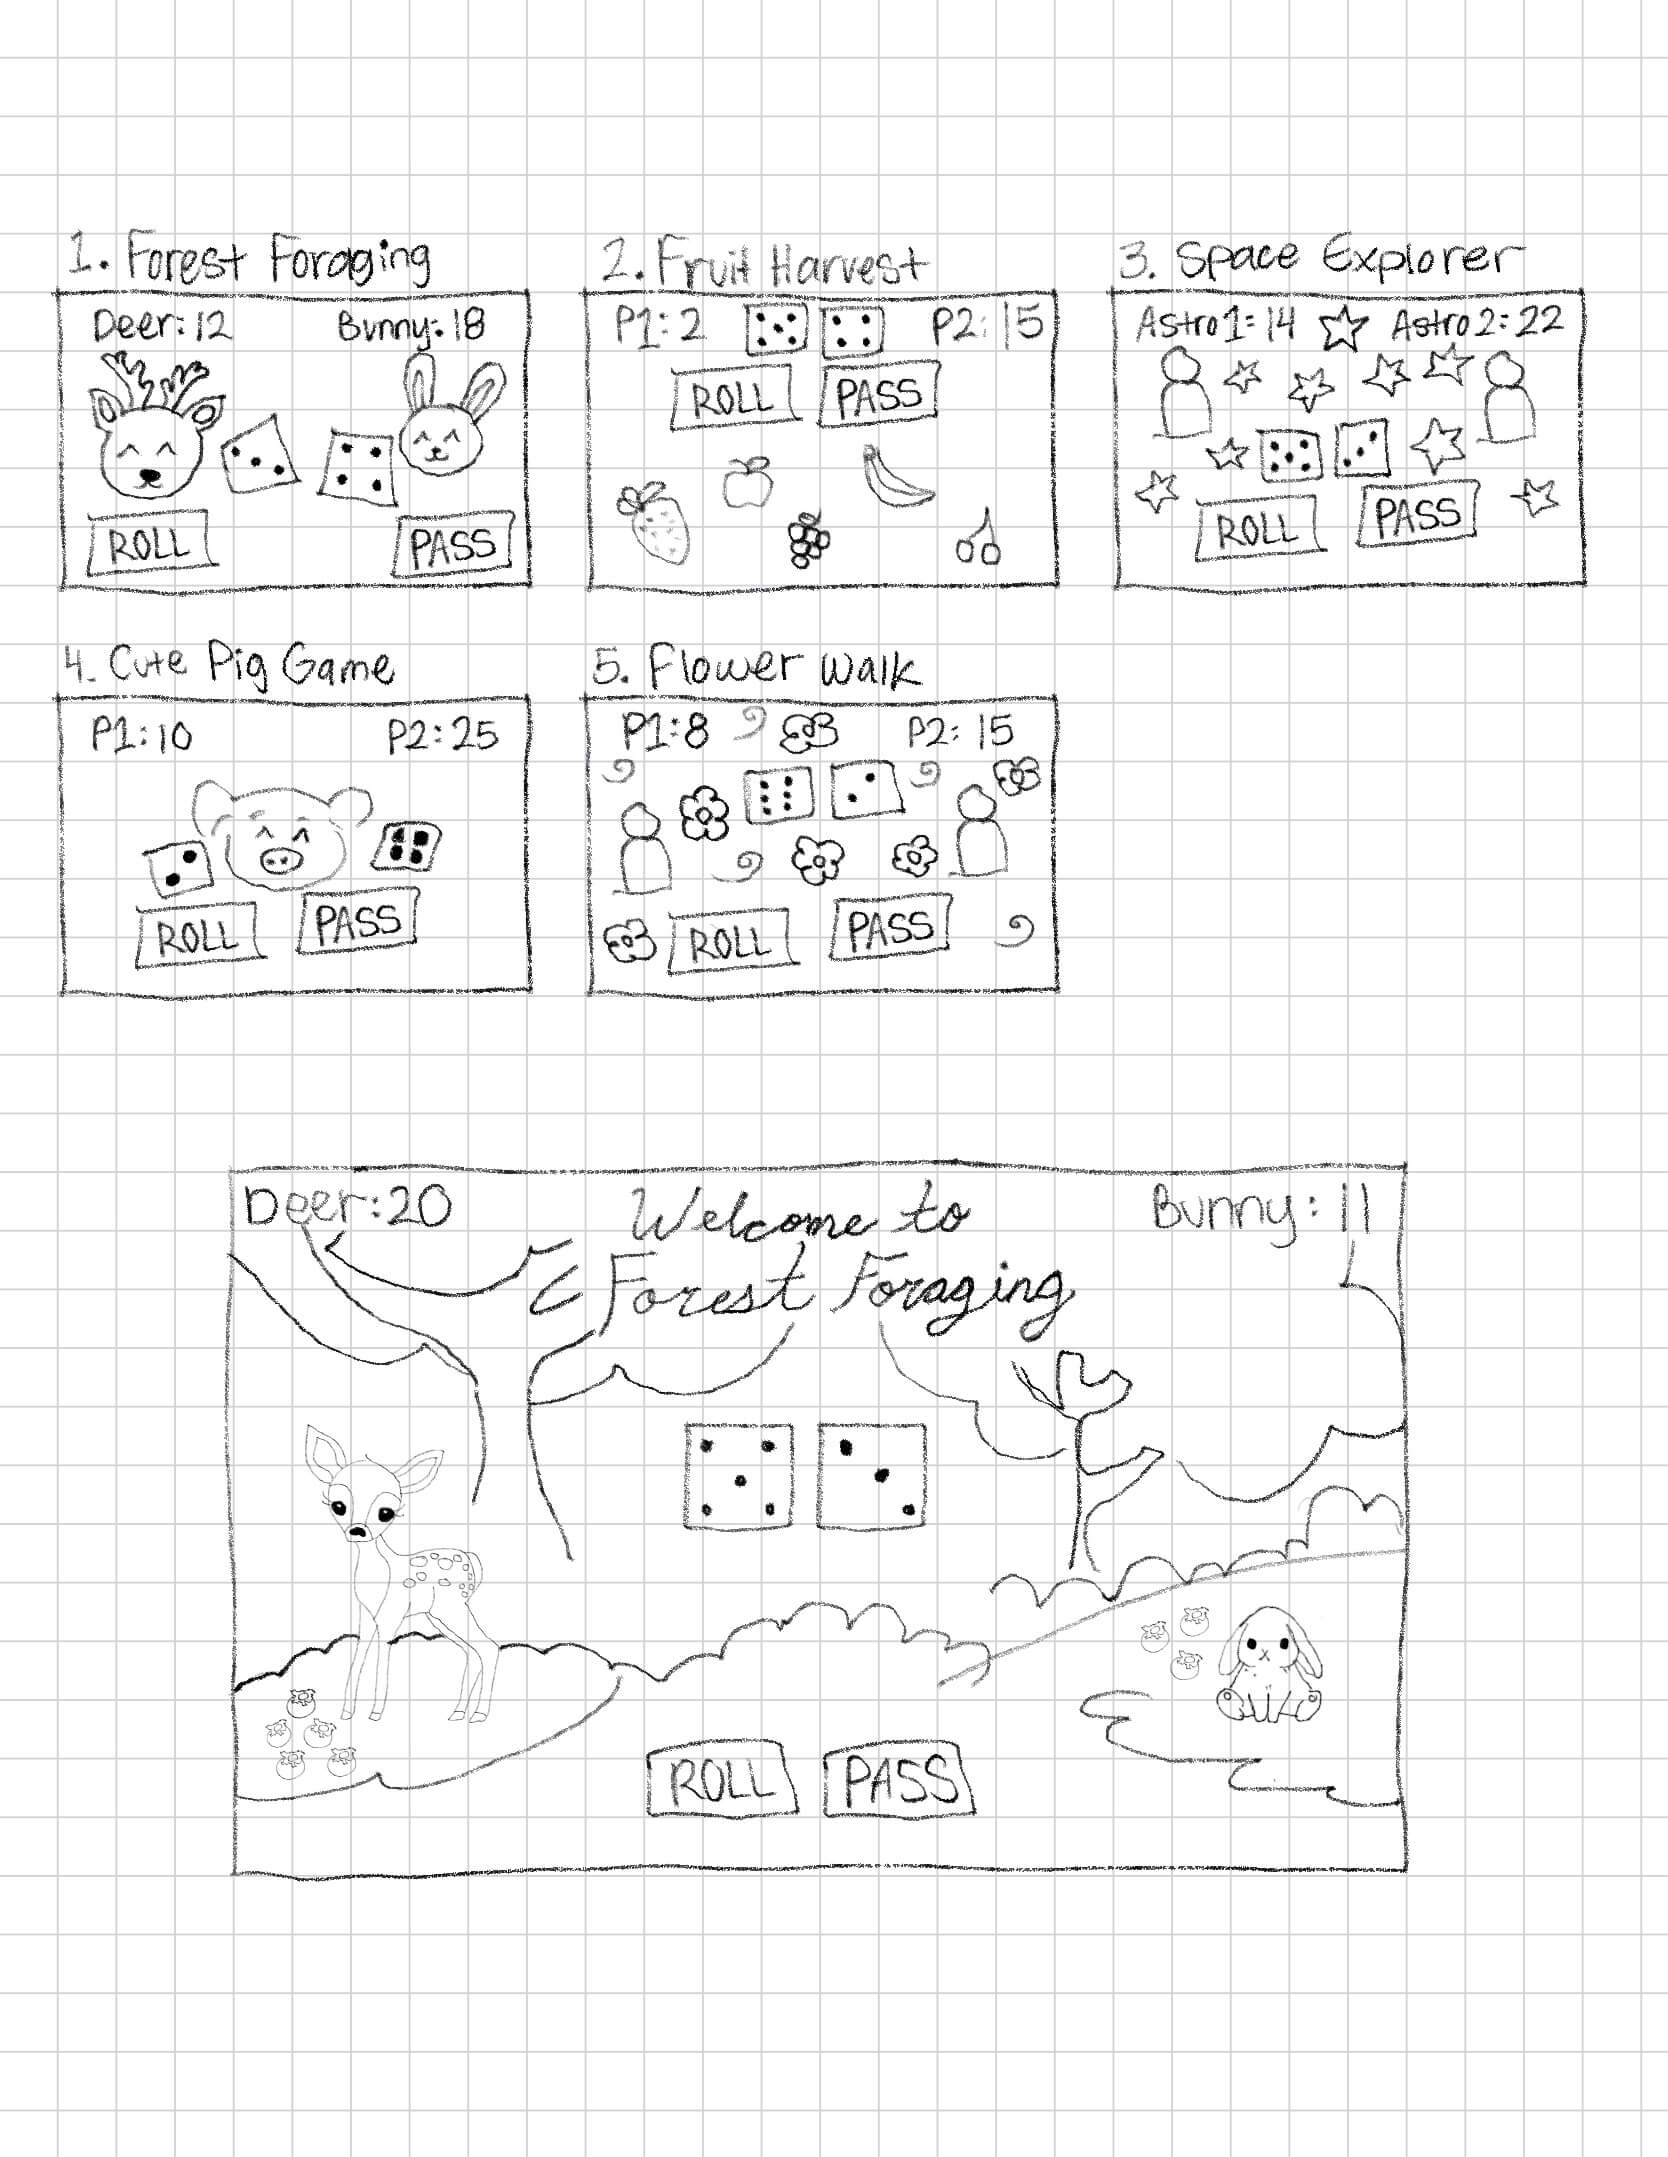
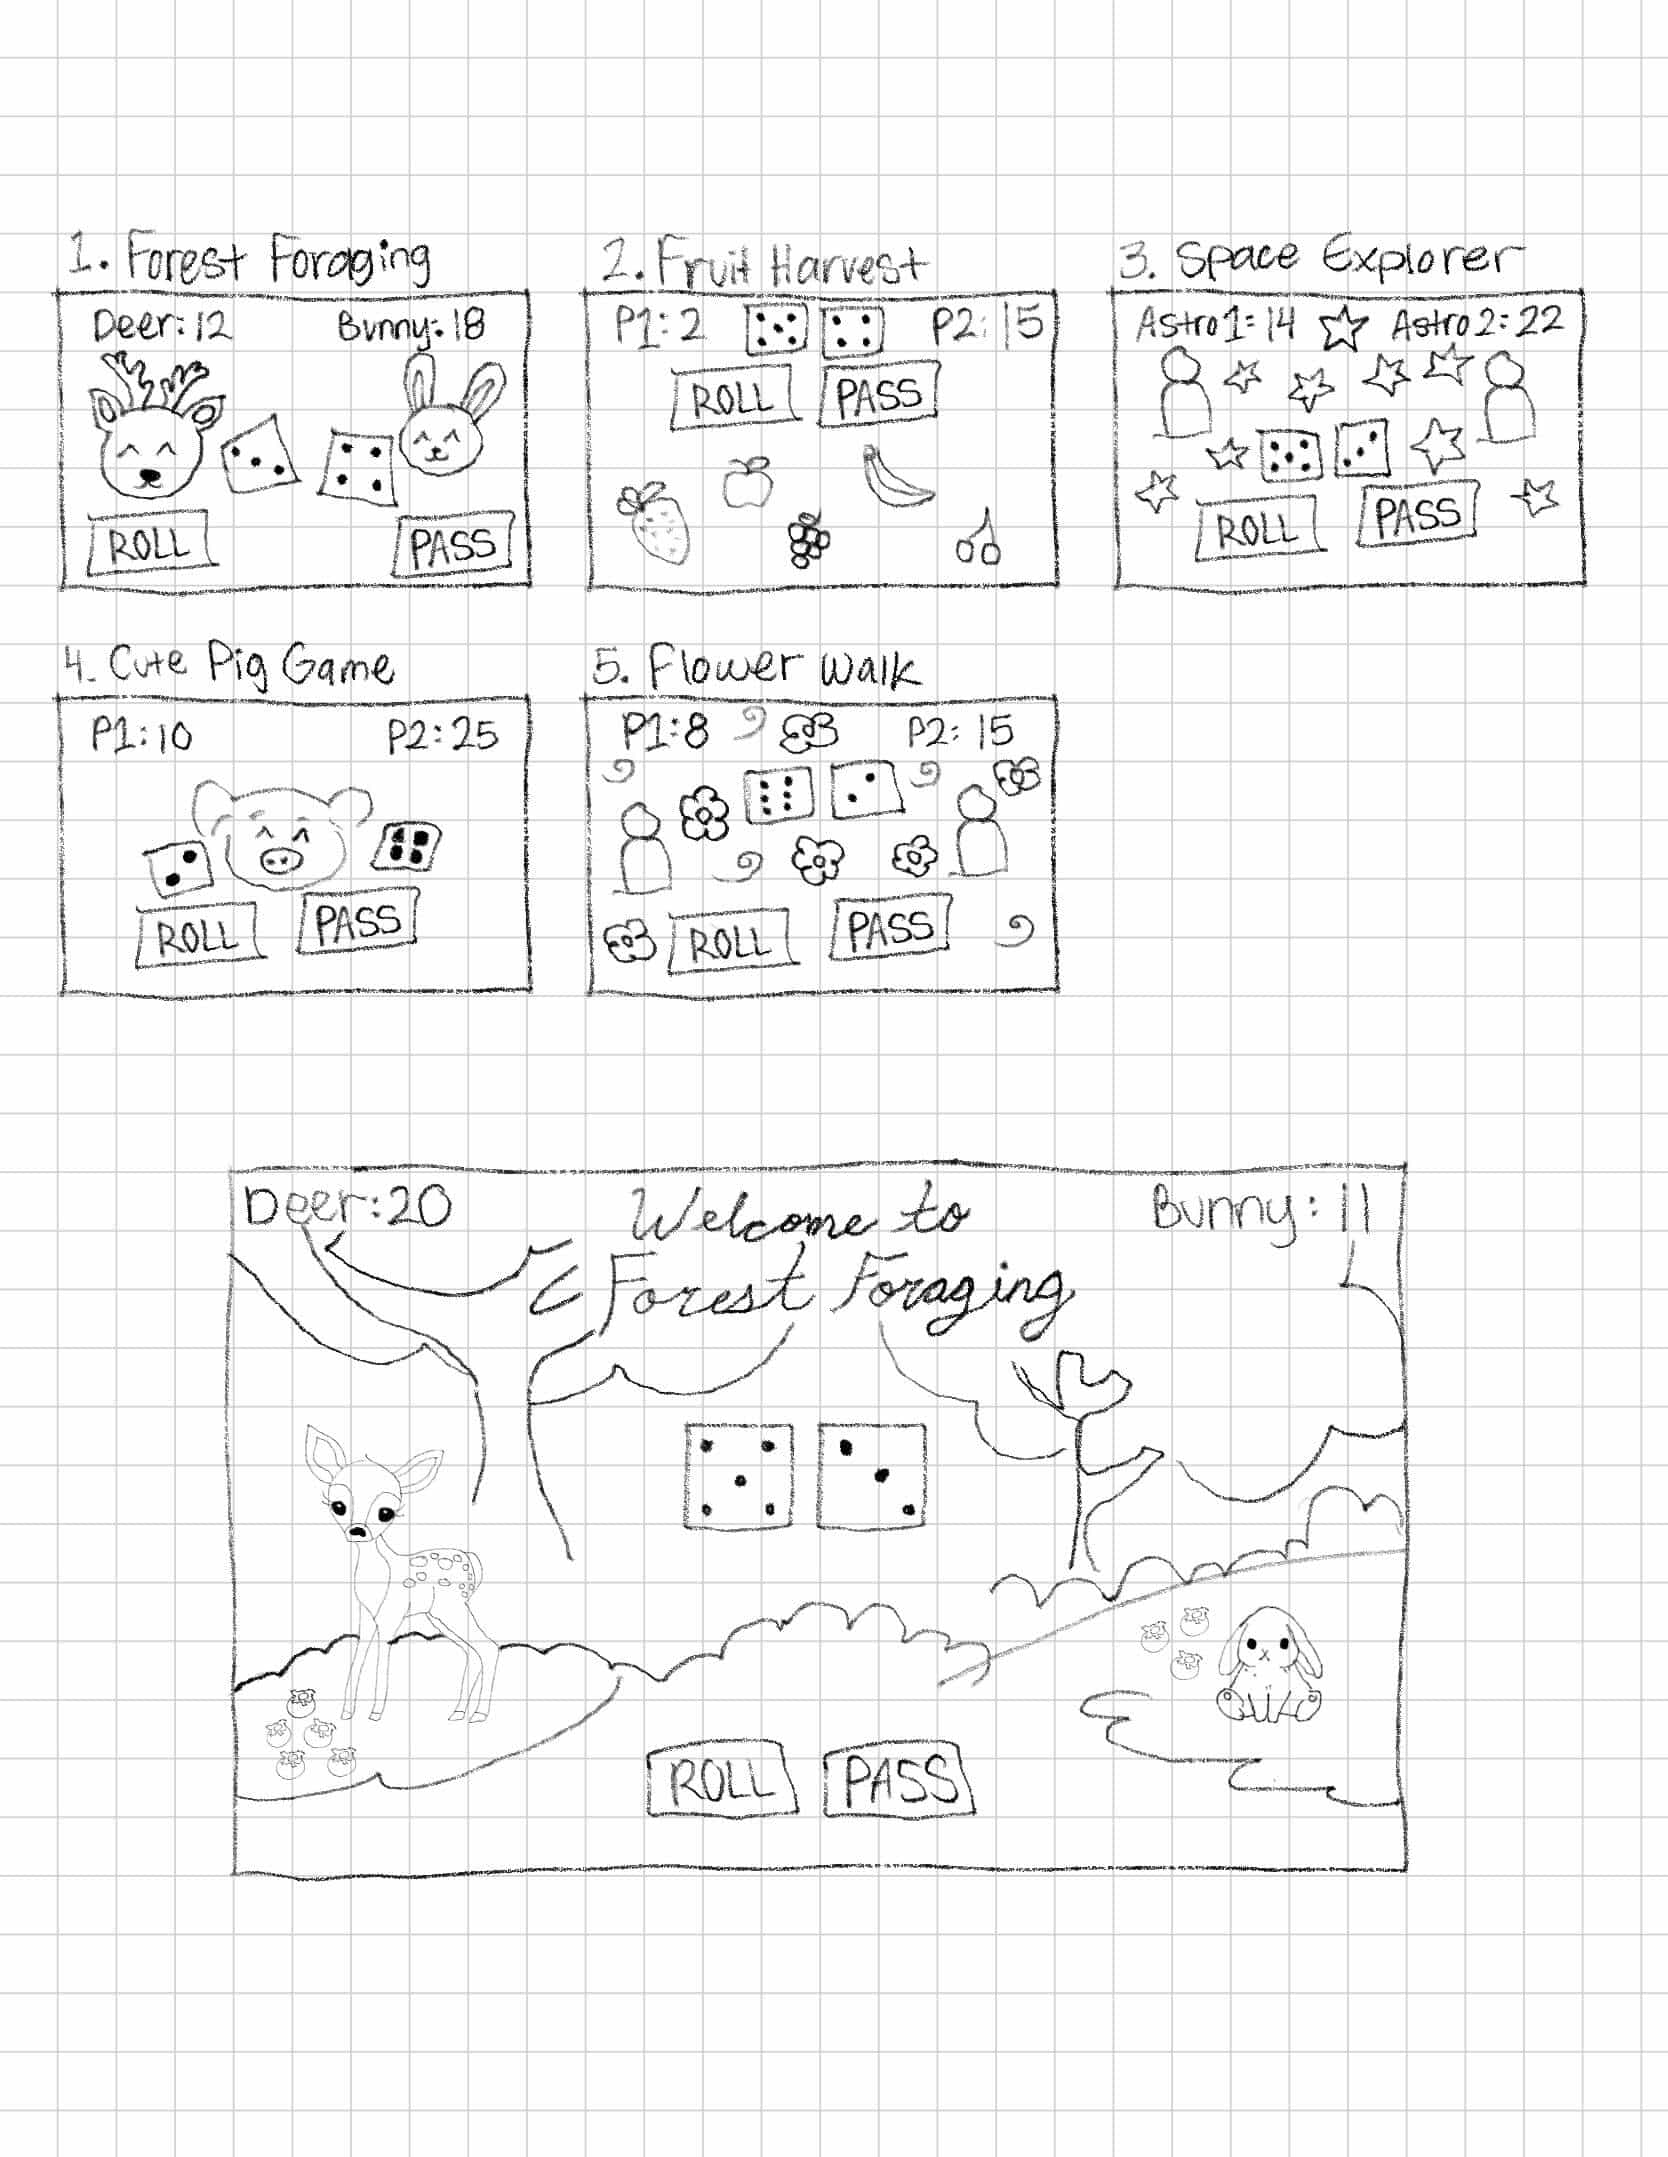
wow

diff --git a/game/designv1.html b/game/designv1.html
@@ -40,7 +40,7 @@
             <img src="images/sketches.jpg" alt="sketch" width="700">
 
             <h3>Digital Composition</h3>
-            <img src="images/design comp.png" alt="digital composition" width="700">
+            <img src="images/design-comp.png" alt="digital composition" width="700">
         </main>
 
         <footer>
